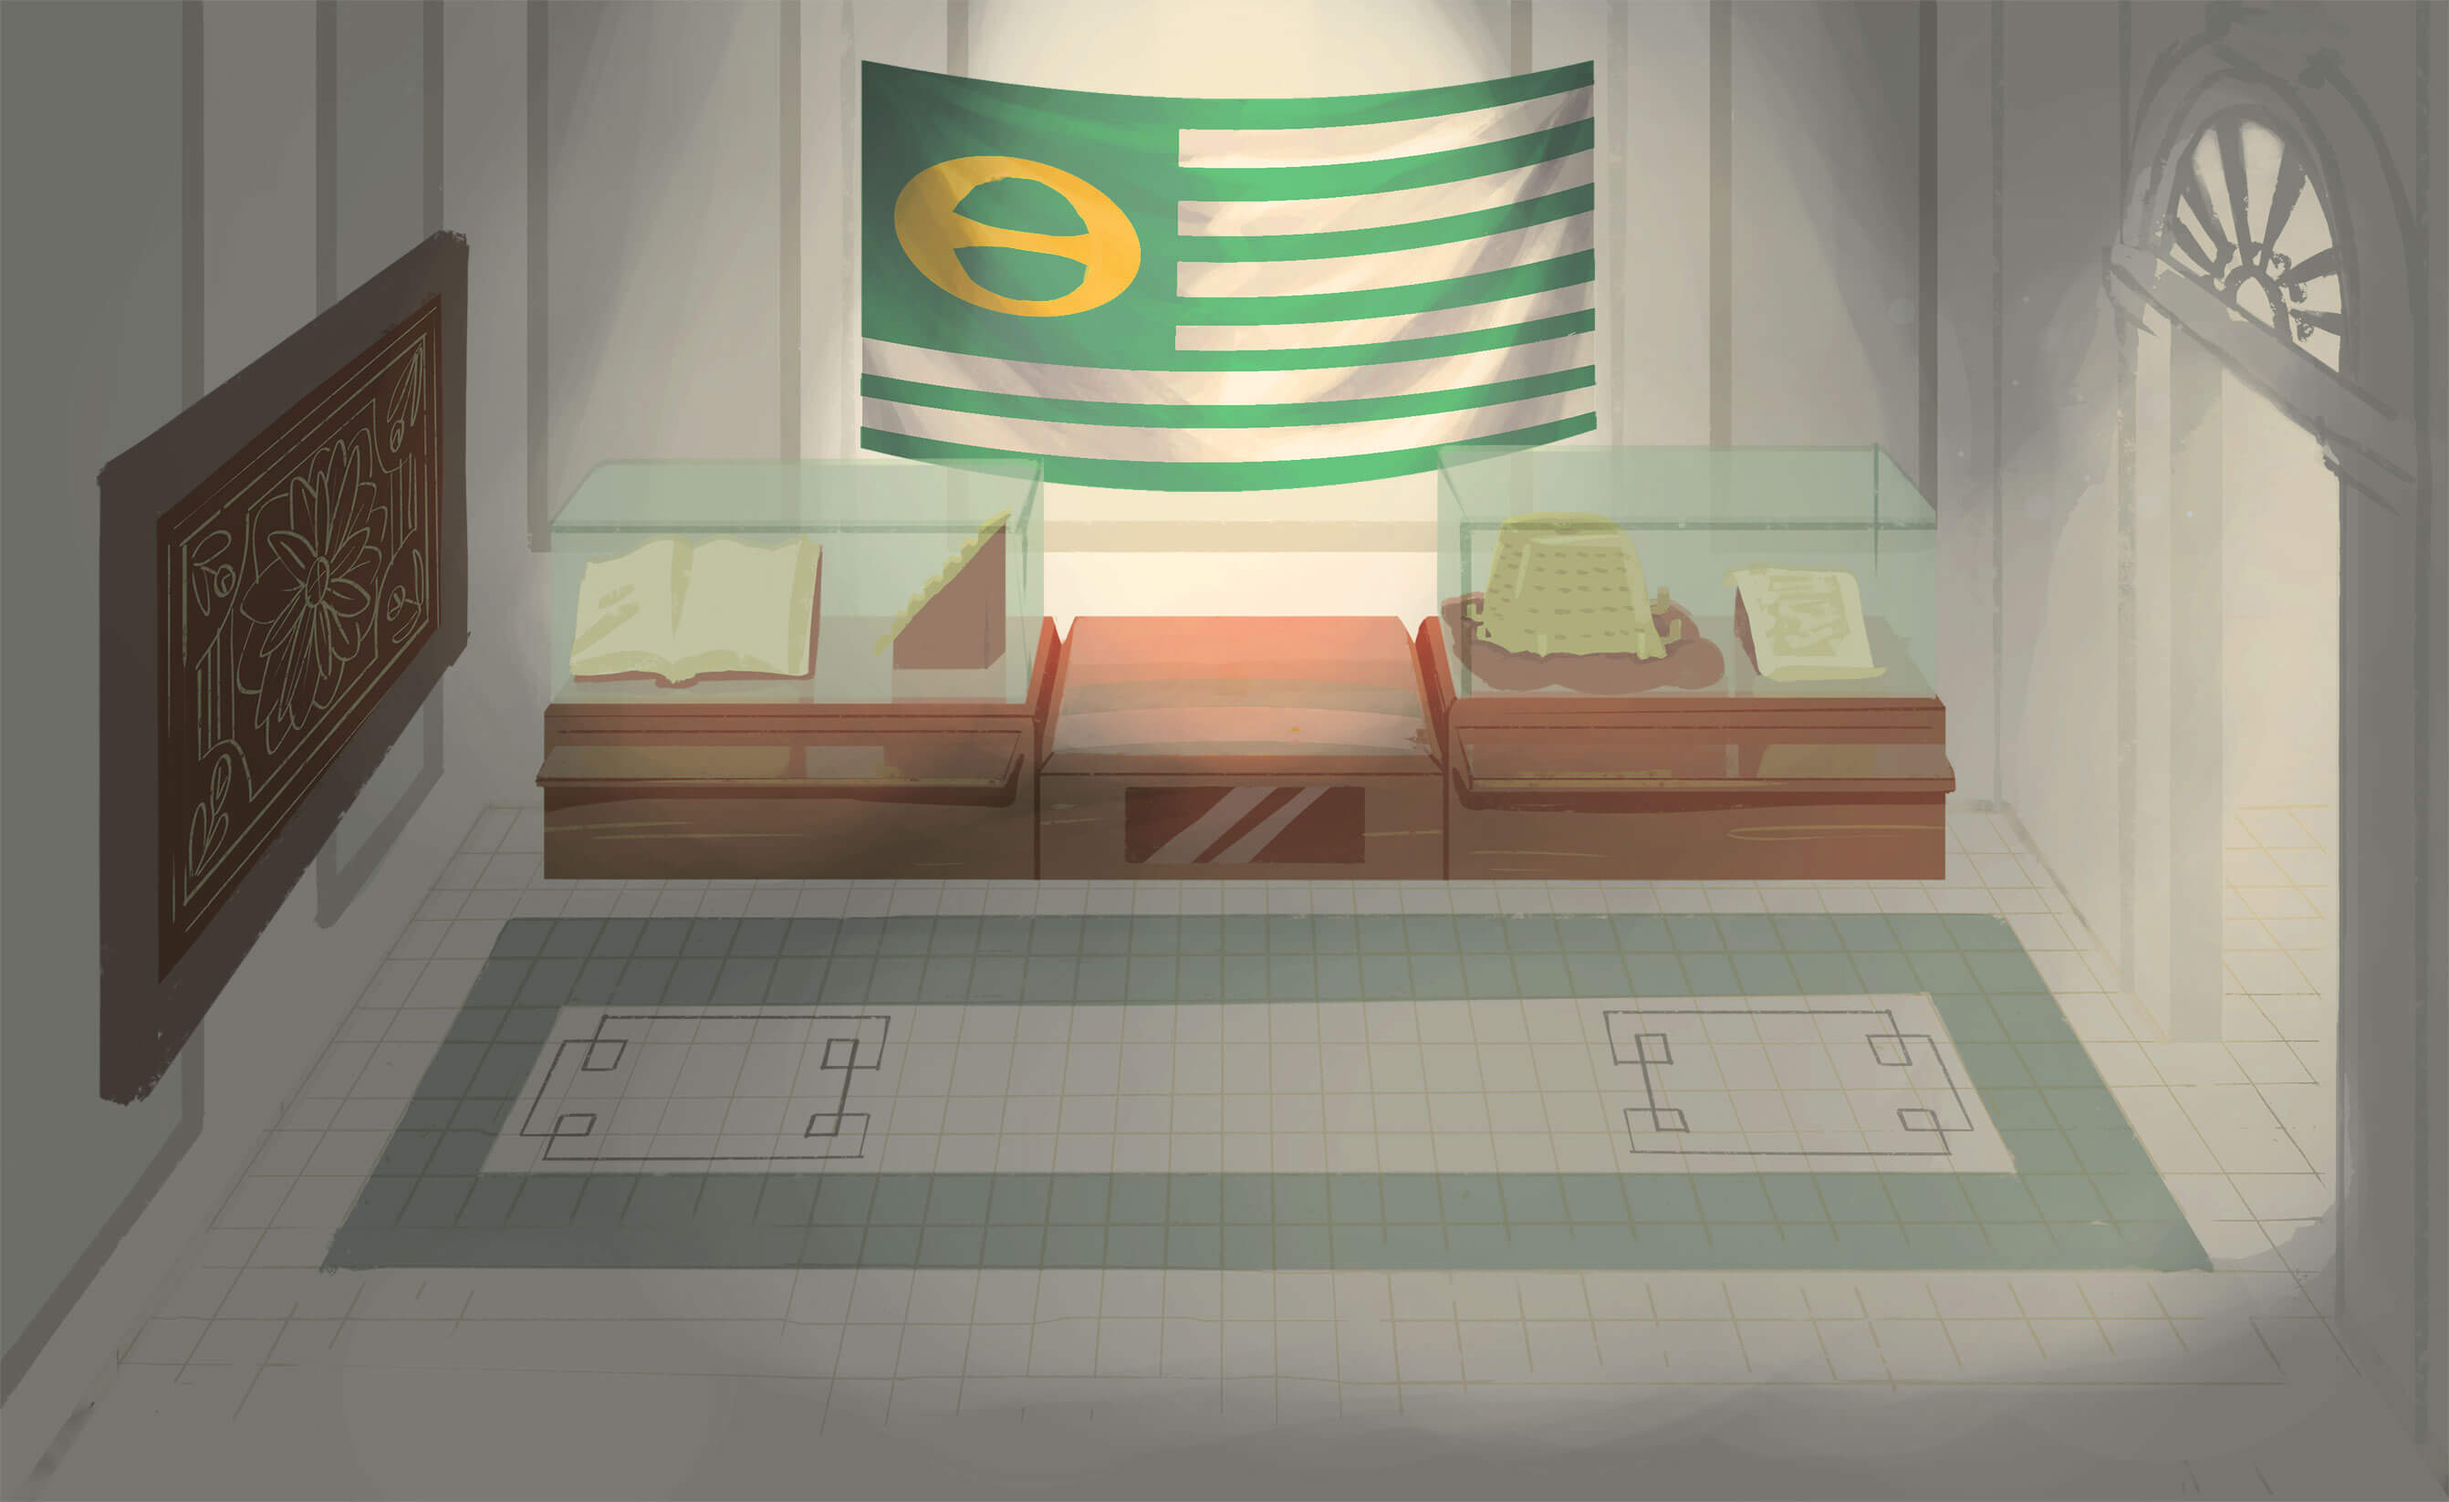
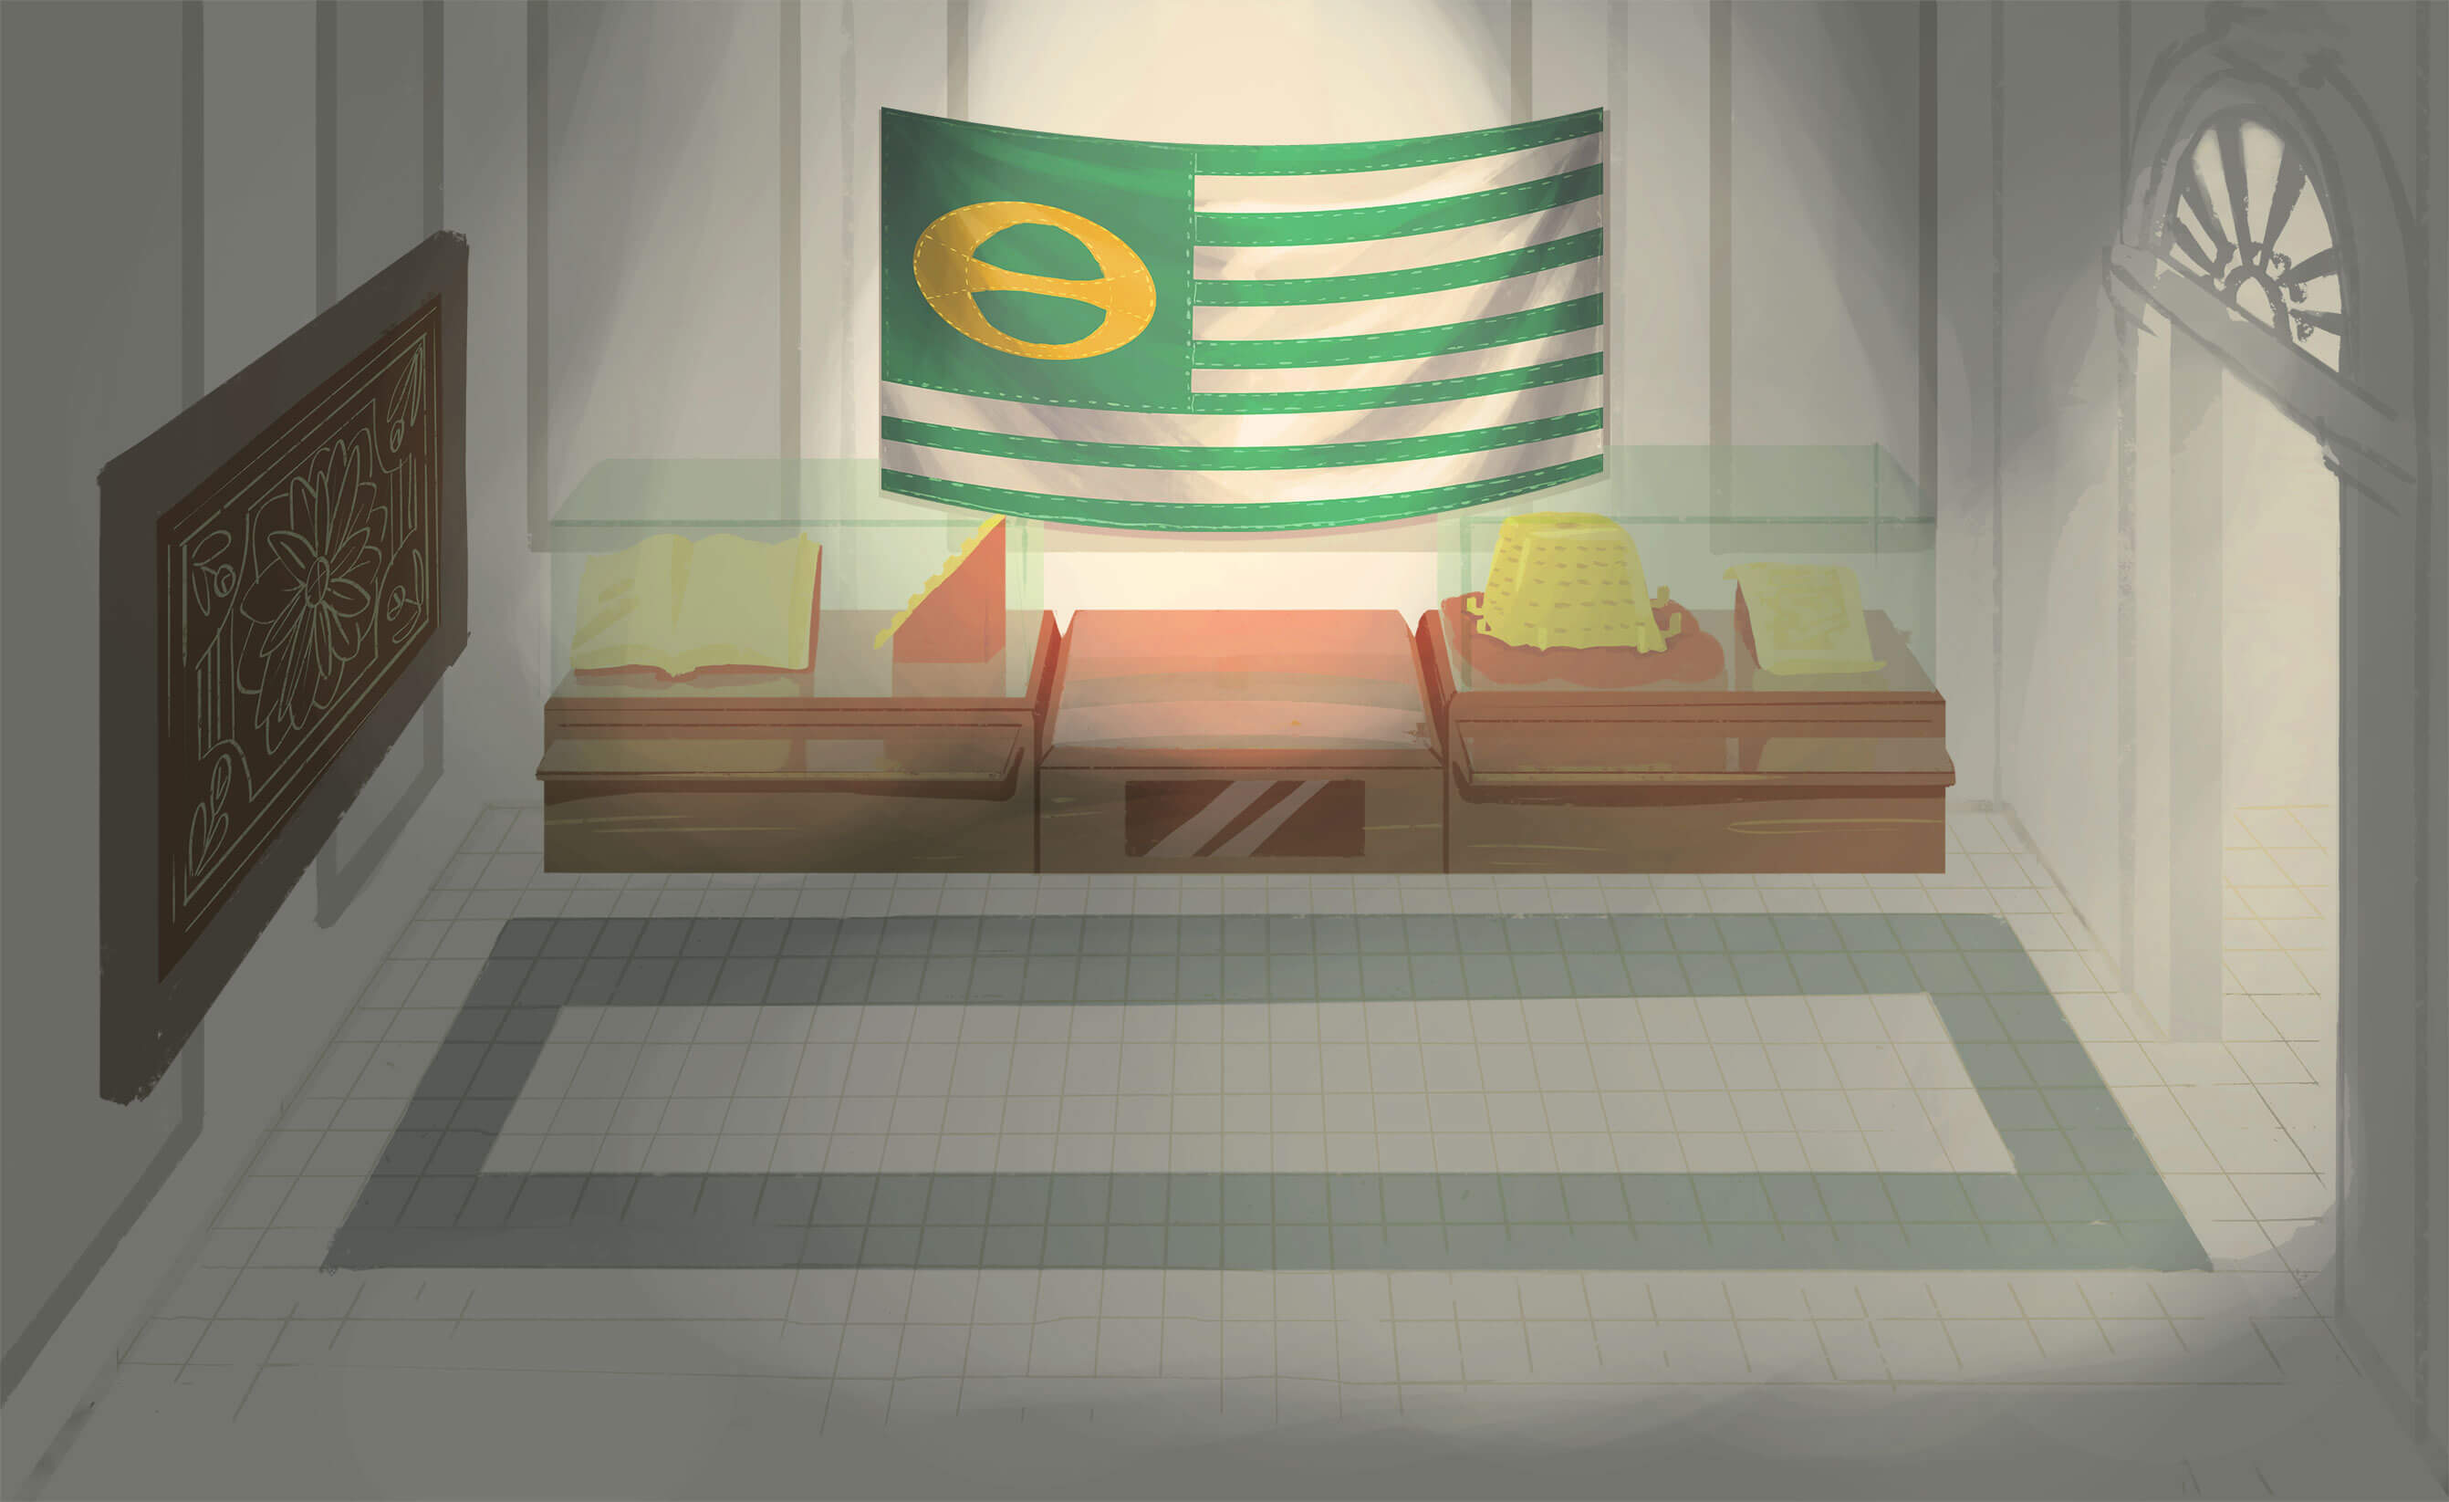
added hand-stiched flag to collection

diff --git a/engine/data.js b/engine/data.js
@@ -34,10 +34,10 @@ tmp_level.avatar_act_animcycle_id = "avatar_act";
 tmp_level.avatar_ww = 124.2914274419755;
 tmp_level.avatar_wh = 227.18935293838604;
 tmp_level.familiar_walk_animcycle_id = "teddy_walk";
-tmp_level.familiar_idle_animcycle_id = "avatar_idle";
+tmp_level.familiar_idle_animcycle_id = "teddy_idle";
 tmp_level.familiar_act_animcycle_id = "avatar_act";
-tmp_level.familiar_ww = 124.2914274419755;
-tmp_level.familiar_wh = 227.18935293838604;
+tmp_level.familiar_ww = 133;
+tmp_level.familiar_wh = 120;
 tmp_level.familiar_off_wx = 0.;
 tmp_level.familiar_off_wy = -20.;
 tmp_level.exit_animcycle_id = "exit";
@@ -91,36 +91,7 @@ tmp_animcycle.loop = 1;
 
 tmp_animcycle.frame_files = [];
 tmp_animcycle.frames = [];
-tmp_animcycle.frame_files.push("assets/data/levels/tunic/animcycles/archivephotos1/../assets/data/levels/tunic/animcycles/archivephotos1/0.png");
-tmp_animcycle.frame_files.push("assets/data/levels/tunic/animcycles/archivephotos1/../assets/data/levels/tunic/animcycles/archivephotos1/0.png");
-tmp_animcycle.frame_files.push("assets/data/levels/tunic/animcycles/archivephotos1/../assets/data/levels/tunic/animcycles/archivephotos1/0.png");
-tmp_animcycle.frame_files.push("assets/data/levels/tunic/animcycles/archivephotos1/../assets/data/levels/tunic/animcycles/archivephotos1/0.png");
-tmp_animcycle.frame_files.push("assets/data/levels/tunic/animcycles/archivephotos1/../assets/data/levels/tunic/animcycles/archivephotos1/0.png");
-tmp_animcycle.frame_files.push("assets/data/levels/tunic/animcycles/archivephotos1/../assets/data/levels/tunic/animcycles/archivephotos1/0.png");
-tmp_animcycle.frame_files.push("assets/data/levels/tunic/animcycles/archivephotos1/../assets/data/levels/tunic/animcycles/archivephotos1/0.png");
-tmp_animcycle.frame_files.push("assets/data/levels/tunic/animcycles/archivephotos1/../assets/data/levels/tunic/animcycles/archivephotos1/0.png");
-tmp_animcycle.frame_files.push("assets/data/levels/tunic/animcycles/archivephotos1/../assets/data/levels/tunic/animcycles/archivephotos1/0.png");
-tmp_animcycle.frame_files.push("assets/data/levels/tunic/animcycles/archivephotos1/../assets/data/levels/tunic/animcycles/archivephotos1/0.png");
-tmp_animcycle.frame_files.push("assets/data/levels/tunic/animcycles/archivephotos1/../assets/data/levels/tunic/animcycles/archivephotos1/0.png");
-tmp_animcycle.frame_files.push("assets/data/levels/tunic/animcycles/archivephotos1/../assets/data/levels/tunic/animcycles/archivephotos1/0.png");
-tmp_animcycle.frame_files.push("assets/data/levels/tunic/animcycles/archivephotos1/../assets/data/levels/tunic/animcycles/archivephotos1/0.png");
-tmp_animcycle.frame_files.push("assets/data/levels/tunic/animcycles/archivephotos1/../assets/data/levels/tunic/animcycles/archivephotos1/0.png");
-tmp_animcycle.frame_files.push("assets/data/levels/tunic/animcycles/archivephotos1/../assets/data/levels/tunic/animcycles/archivephotos1/0.png");
-tmp_animcycle.frame_files.push("assets/data/levels/tunic/animcycles/archivephotos1/../assets/data/levels/tunic/animcycles/archivephotos1/0.png");
-tmp_animcycle.frame_files.push("assets/data/levels/tunic/animcycles/archivephotos1/../assets/data/levels/tunic/animcycles/archivephotos1/0.png");
-tmp_animcycle.frame_files.push("assets/data/levels/tunic/animcycles/archivephotos1/../assets/data/levels/tunic/animcycles/archivephotos1/0.png");
-tmp_animcycle.frame_files.push("assets/data/levels/tunic/animcycles/archivephotos1/../assets/data/levels/tunic/animcycles/archivephotos1/0.png");
-tmp_animcycle.frame_files.push("assets/data/levels/tunic/animcycles/archivephotos1/../assets/data/levels/tunic/animcycles/archivephotos1/0.png");
-tmp_animcycle.frame_files.push("assets/data/levels/tunic/animcycles/archivephotos1/../assets/data/levels/tunic/animcycles/archivephotos1/0.png");
-tmp_animcycle.frame_files.push("assets/data/levels/tunic/animcycles/archivephotos1/../assets/data/levels/tunic/animcycles/archivephotos1/0.png");
-tmp_animcycle.frame_files.push("assets/data/levels/tunic/animcycles/archivephotos1/../assets/data/levels/tunic/animcycles/archivephotos1/0.png");
-tmp_animcycle.frame_files.push("assets/data/levels/tunic/animcycles/archivephotos1/../assets/data/levels/tunic/animcycles/archivephotos1/0.png");
-tmp_animcycle.frame_files.push("assets/data/levels/tunic/animcycles/archivephotos1/../assets/data/levels/tunic/animcycles/archivephotos1/0.png");
-tmp_animcycle.frame_files.push("assets/data/levels/tunic/animcycles/archivephotos1/../assets/data/levels/tunic/animcycles/archivephotos1/0.png");
-tmp_animcycle.frame_files.push("assets/data/levels/tunic/animcycles/archivephotos1/../assets/data/levels/tunic/animcycles/archivephotos1/0.png");
-tmp_animcycle.frame_files.push("assets/data/levels/tunic/animcycles/archivephotos1/../assets/data/levels/tunic/animcycles/archivephotos1/0.png");
-tmp_animcycle.frame_files.push("assets/data/levels/tunic/animcycles/archivephotos1/../assets/data/levels/tunic/animcycles/archivephotos1/0.png");
-tmp_animcycle.frame_files.push("assets/data/levels/tunic/animcycles/archivephotos1/../assets/data/levels/tunic/animcycles/archivephotos1/0.png");
+tmp_animcycle.frame_files.push("assets/data/levels/tunic/animcycles/archivephotos1/0.png");
 }
 tmp_level.animcycles.push(tmp_animcycle);
 tmp_animcycle = new animcycle();
@@ -3637,8 +3608,7 @@ tmp_animcycle.w = 0;
 tmp_animcycle.h = 0;
 tmp_animcycle.frame_t = 10;
 tmp_animcycle.offset_t = 0;
-tmp_animcycle.loop = 1;
-
+tmp_animcycle.loop = 0;
 tmp_animcycle.frame_files = [];
 tmp_animcycle.frames = [];
 tmp_animcycle.frame_files.push("assets/data/levels/tunic/animcycles/teddy_idle/0.png");

diff --git a/src/scenes/data.js b/src/scenes/data.js
@@ -91,36 +91,7 @@ tmp_animcycle.loop = 1;
 
 tmp_animcycle.frame_files = [];
 tmp_animcycle.frames = [];
-tmp_animcycle.frame_files.push("assets/data/levels/tunic/animcycles/archivephotos1/../assets/data/levels/tunic/animcycles/archivephotos1/0.png");
-tmp_animcycle.frame_files.push("assets/data/levels/tunic/animcycles/archivephotos1/../assets/data/levels/tunic/animcycles/archivephotos1/0.png");
-tmp_animcycle.frame_files.push("assets/data/levels/tunic/animcycles/archivephotos1/../assets/data/levels/tunic/animcycles/archivephotos1/0.png");
-tmp_animcycle.frame_files.push("assets/data/levels/tunic/animcycles/archivephotos1/../assets/data/levels/tunic/animcycles/archivephotos1/0.png");
-tmp_animcycle.frame_files.push("assets/data/levels/tunic/animcycles/archivephotos1/../assets/data/levels/tunic/animcycles/archivephotos1/0.png");
-tmp_animcycle.frame_files.push("assets/data/levels/tunic/animcycles/archivephotos1/../assets/data/levels/tunic/animcycles/archivephotos1/0.png");
-tmp_animcycle.frame_files.push("assets/data/levels/tunic/animcycles/archivephotos1/../assets/data/levels/tunic/animcycles/archivephotos1/0.png");
-tmp_animcycle.frame_files.push("assets/data/levels/tunic/animcycles/archivephotos1/../assets/data/levels/tunic/animcycles/archivephotos1/0.png");
-tmp_animcycle.frame_files.push("assets/data/levels/tunic/animcycles/archivephotos1/../assets/data/levels/tunic/animcycles/archivephotos1/0.png");
-tmp_animcycle.frame_files.push("assets/data/levels/tunic/animcycles/archivephotos1/../assets/data/levels/tunic/animcycles/archivephotos1/0.png");
-tmp_animcycle.frame_files.push("assets/data/levels/tunic/animcycles/archivephotos1/../assets/data/levels/tunic/animcycles/archivephotos1/0.png");
-tmp_animcycle.frame_files.push("assets/data/levels/tunic/animcycles/archivephotos1/../assets/data/levels/tunic/animcycles/archivephotos1/0.png");
-tmp_animcycle.frame_files.push("assets/data/levels/tunic/animcycles/archivephotos1/../assets/data/levels/tunic/animcycles/archivephotos1/0.png");
-tmp_animcycle.frame_files.push("assets/data/levels/tunic/animcycles/archivephotos1/../assets/data/levels/tunic/animcycles/archivephotos1/0.png");
-tmp_animcycle.frame_files.push("assets/data/levels/tunic/animcycles/archivephotos1/../assets/data/levels/tunic/animcycles/archivephotos1/0.png");
-tmp_animcycle.frame_files.push("assets/data/levels/tunic/animcycles/archivephotos1/../assets/data/levels/tunic/animcycles/archivephotos1/0.png");
-tmp_animcycle.frame_files.push("assets/data/levels/tunic/animcycles/archivephotos1/../assets/data/levels/tunic/animcycles/archivephotos1/0.png");
-tmp_animcycle.frame_files.push("assets/data/levels/tunic/animcycles/archivephotos1/../assets/data/levels/tunic/animcycles/archivephotos1/0.png");
-tmp_animcycle.frame_files.push("assets/data/levels/tunic/animcycles/archivephotos1/../assets/data/levels/tunic/animcycles/archivephotos1/0.png");
-tmp_animcycle.frame_files.push("assets/data/levels/tunic/animcycles/archivephotos1/../assets/data/levels/tunic/animcycles/archivephotos1/0.png");
-tmp_animcycle.frame_files.push("assets/data/levels/tunic/animcycles/archivephotos1/../assets/data/levels/tunic/animcycles/archivephotos1/0.png");
-tmp_animcycle.frame_files.push("assets/data/levels/tunic/animcycles/archivephotos1/../assets/data/levels/tunic/animcycles/archivephotos1/0.png");
-tmp_animcycle.frame_files.push("assets/data/levels/tunic/animcycles/archivephotos1/../assets/data/levels/tunic/animcycles/archivephotos1/0.png");
-tmp_animcycle.frame_files.push("assets/data/levels/tunic/animcycles/archivephotos1/../assets/data/levels/tunic/animcycles/archivephotos1/0.png");
-tmp_animcycle.frame_files.push("assets/data/levels/tunic/animcycles/archivephotos1/../assets/data/levels/tunic/animcycles/archivephotos1/0.png");
-tmp_animcycle.frame_files.push("assets/data/levels/tunic/animcycles/archivephotos1/../assets/data/levels/tunic/animcycles/archivephotos1/0.png");
-tmp_animcycle.frame_files.push("assets/data/levels/tunic/animcycles/archivephotos1/../assets/data/levels/tunic/animcycles/archivephotos1/0.png");
-tmp_animcycle.frame_files.push("assets/data/levels/tunic/animcycles/archivephotos1/../assets/data/levels/tunic/animcycles/archivephotos1/0.png");
-tmp_animcycle.frame_files.push("assets/data/levels/tunic/animcycles/archivephotos1/../assets/data/levels/tunic/animcycles/archivephotos1/0.png");
-tmp_animcycle.frame_files.push("assets/data/levels/tunic/animcycles/archivephotos1/../assets/data/levels/tunic/animcycles/archivephotos1/0.png");
+tmp_animcycle.frame_files.push("assets/data/levels/tunic/animcycles/archivephotos1/0.png");
 }
 tmp_level.animcycles.push(tmp_animcycle);
 tmp_animcycle = new animcycle();
@@ -7506,7 +7477,7 @@ tmp_cutscene_command.command = CUTSCENE_COMMAND_ACT;
 tmp_cutscene_command.cutscene_entity_id = "chap2_finale";
 tmp_cutscene_command.cutscene_entity_type = CUTSCENE_ENTITY_SCENE;
 tmp_cutscene_command.t = 51;
-tmp_cutscene.commands.push(tmp_cutscene_command);
+tmp_cutscene.commands.push(tmp_cutscene_command); 
 //
 
 tmp_cutscene_command = new cutscene_command();
@@ -27502,3 +27473,4 @@ levels.push(tmp_level);
     }
   }
 }
+
